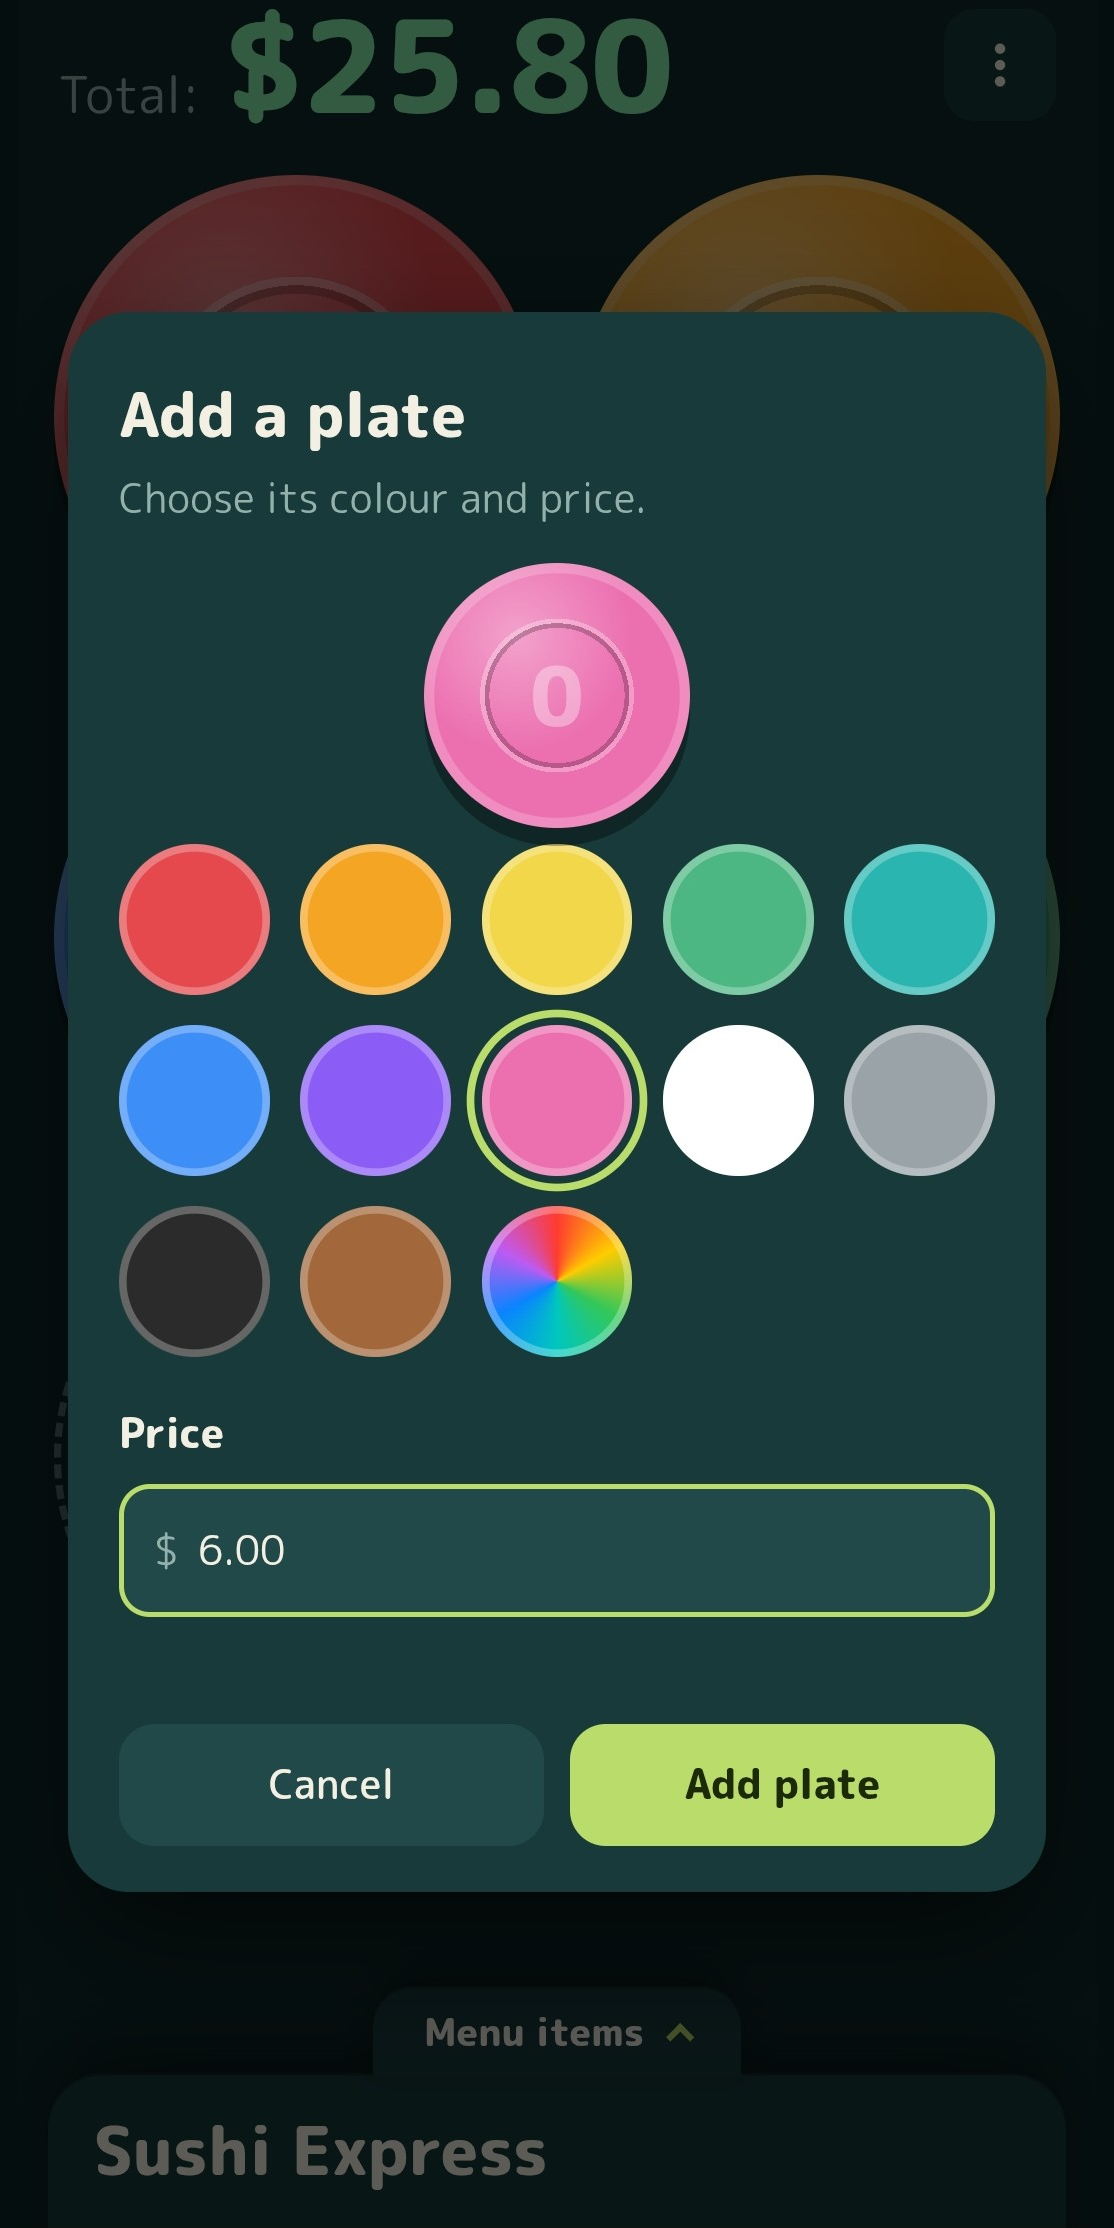
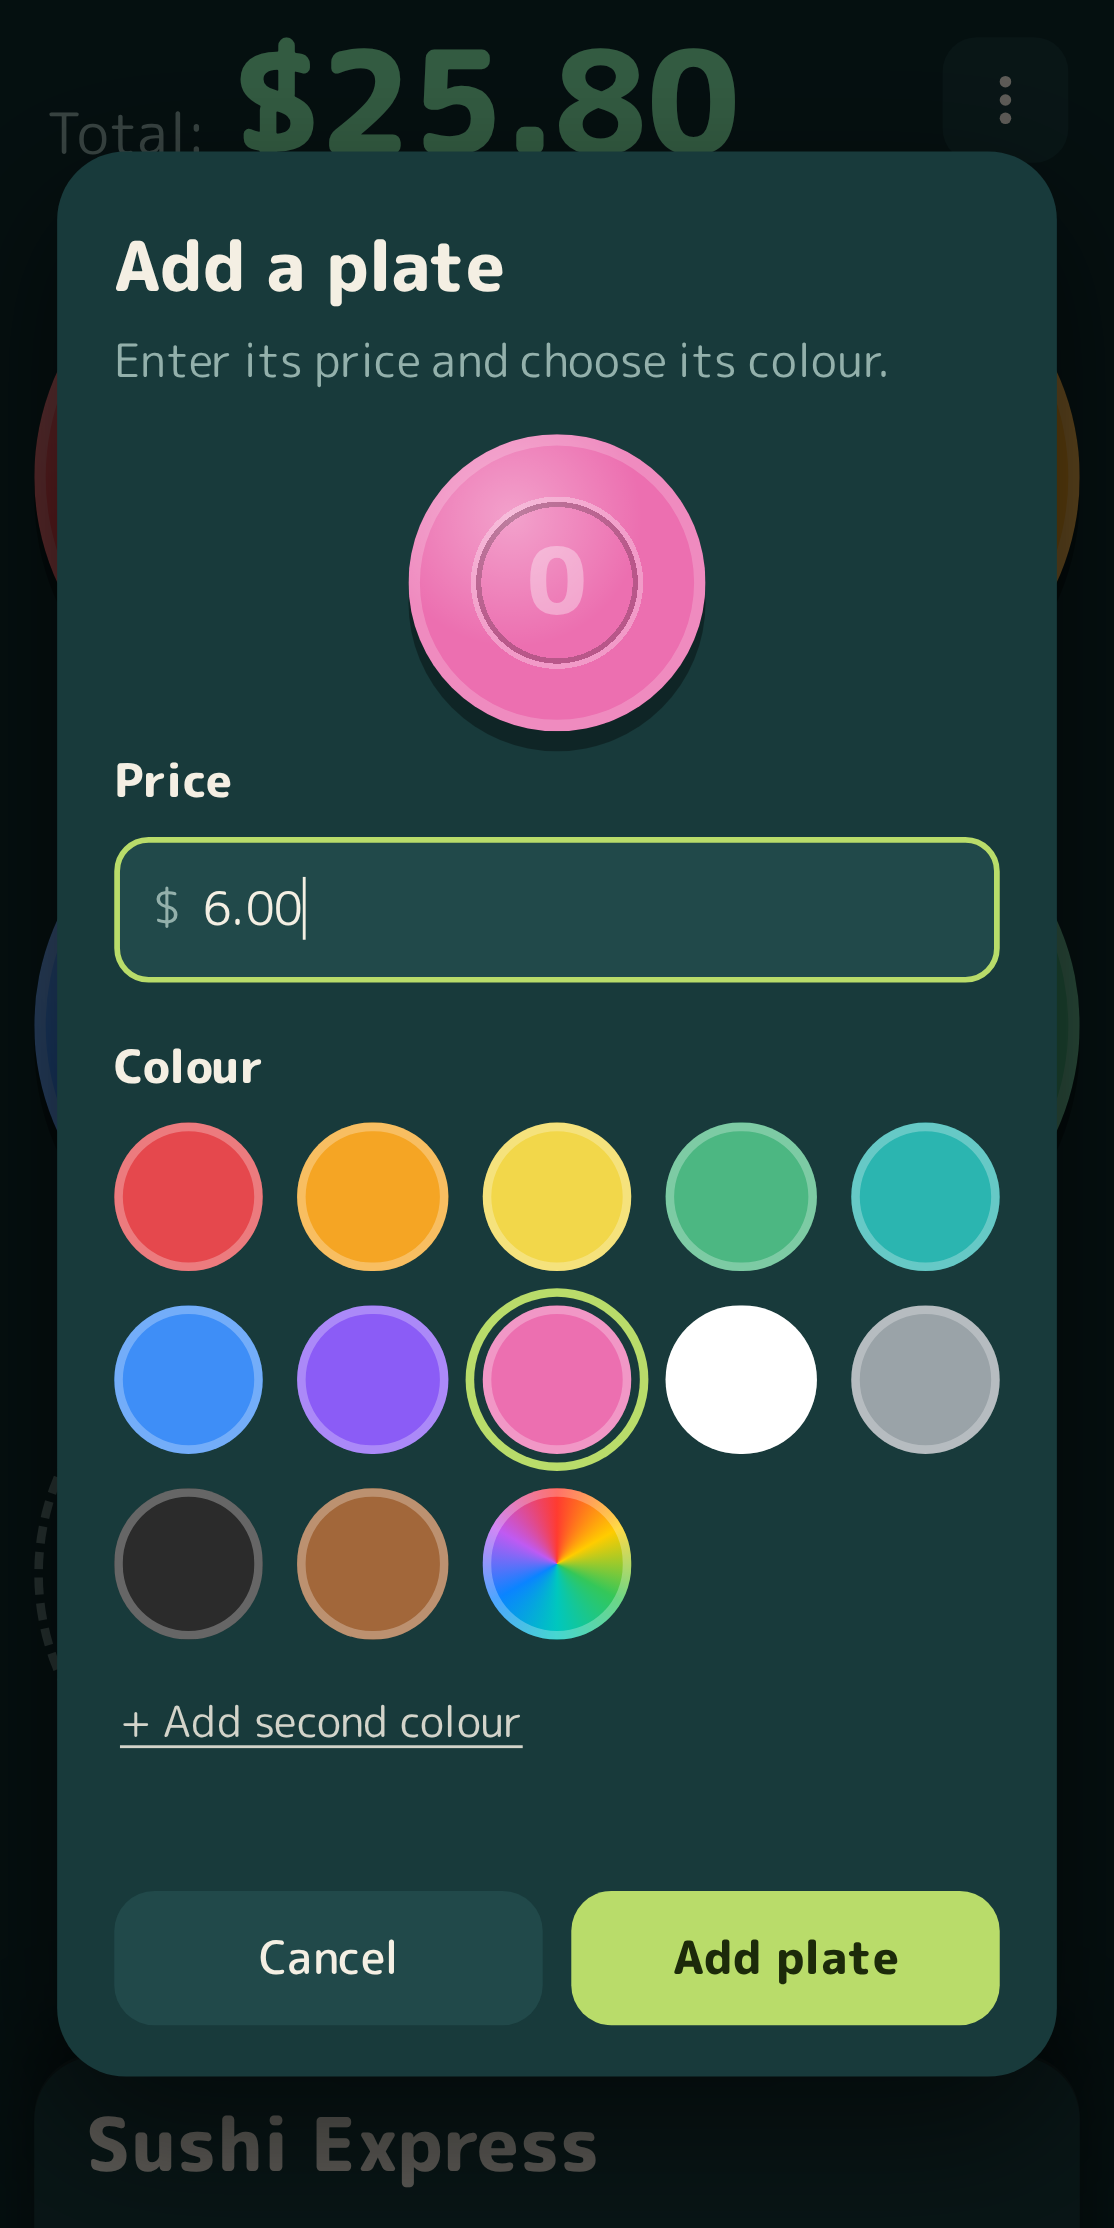
Package two-colour plates: version label, listing, add-plate screenshot
- Version label: 22 Oct 2026 · two-colour plates
- Play listing: feature line and release notes
- store/screenshots/phone-4-add-plate.png retaken (price now above the colours)
- No Android re-upload needed (android/twa-manifest.json unchanged)

Claude-Session: https://claude.ai/code/session_01VnbxSQqihB85awv8dA3aqh

diff --git a/src/js/01-config-state.js b/src/js/01-config-state.js
@@ -1,5 +1,5 @@
 /* ============ config ============ */
-const BUILD = '22 Oct 2026 · two-colour plates, colour check';   // shown on the landing page so you can tell which copy is running
+const BUILD = '22 Oct 2026 · two-colour plates';   // shown on the landing page so you can tell which copy is running
 const BUILD_ID = 'dev';   // stamped with the git commit by update.sh
 const KEY = 'plateTally.v1';
 const SWATCHES = ['#e5484d','#f5a524','#f2d74a','#4cb782','#3e8ef7','#8b5cf6','#e8e2d4','#2b2b2b'];

diff --git a/store/listing.md b/store/listing.md
@@ -19,6 +19,7 @@ Set up your restaurant once: choose a colour and a price for each plate. Then, e
 EVERYTHING IS FREE
 • Tap a plate to add it, with a big running total at the top
 • Colour-coded plates with the price shown on each one, as many as your restaurant has, sorted by price in one tap
+• Two plate colours at the same price? Put both on one plate, or split them into two
 • Took one by mistake? Remove-a-plate mode takes it off again
 • Pinch to zoom: choose 2 to 6 plates across, for big easy targets or everything on one screen
 • An itemised bill showing every plate colour and the total, and End meal to clear it when you leave
@@ -62,6 +63,12 @@ Perfect for solo diners, families, and anyone who has ever lost count of the pla
 **Data safety note.** The app collects nothing: restaurants, prices and bills stay on the phone, there are no accounts, no analytics, no ads and no purchases, and the font is bundled so there are no third-party requests. The only network traffic is loading the app's own files from your Cloudflare-hosted site, which (like any web host) sees IP addresses. Sharing by QR code does not change this: the camera picture is only read on the phone to find the code, and nothing is sent anywhere, so it is not "collected" in Google's sense. The form is a declaration you make, so read Google's definitions on the form itself and answer the way you are comfortable with. If you later add analytics, accounts or cloud backup, this answer and the privacy policy must change.
 
 ## Release notes
+
+Two-colour plates release (22 Oct 2026):
+
+```
+Restaurants with two plate colours at the same price: give one plate both colours (shown half and half), or split it into two. Setting up a plate now asks for the price first, and two plates can no longer share a colour by mistake.
+```
 
 Zoom release (22 Oct 2026):
 
